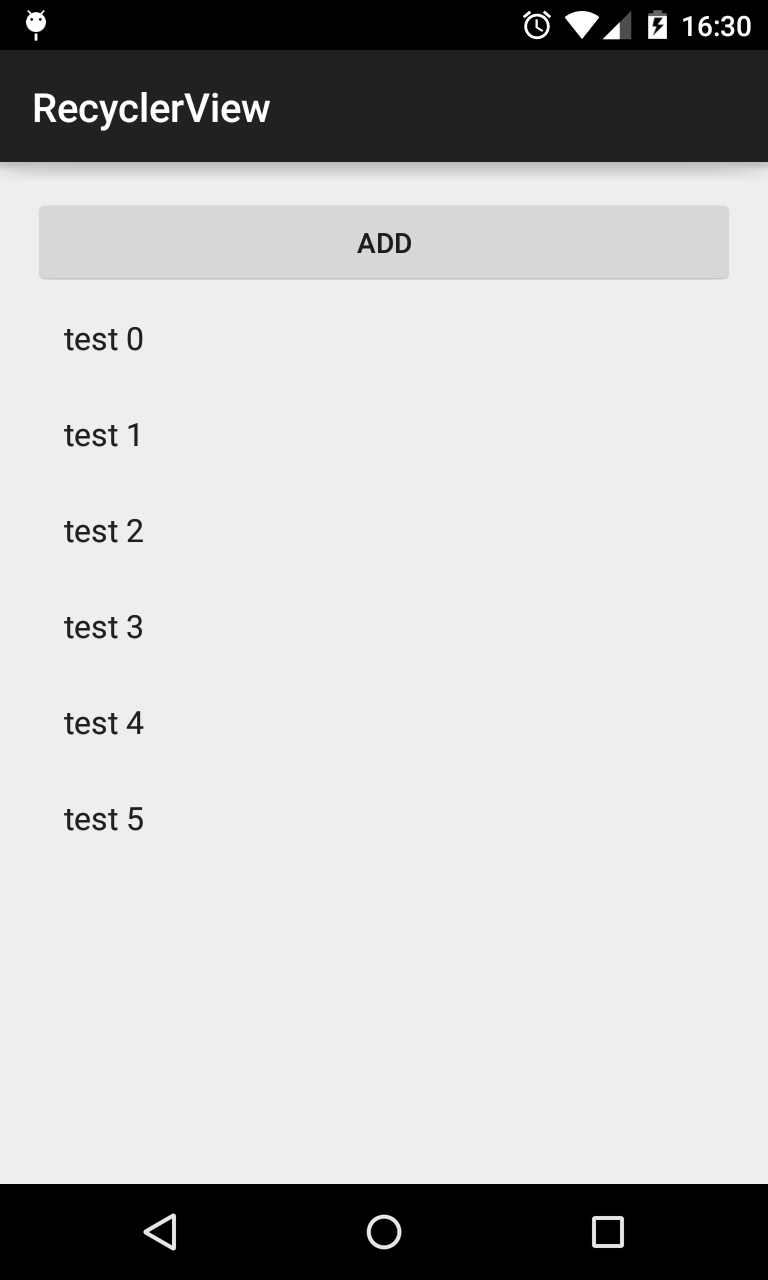
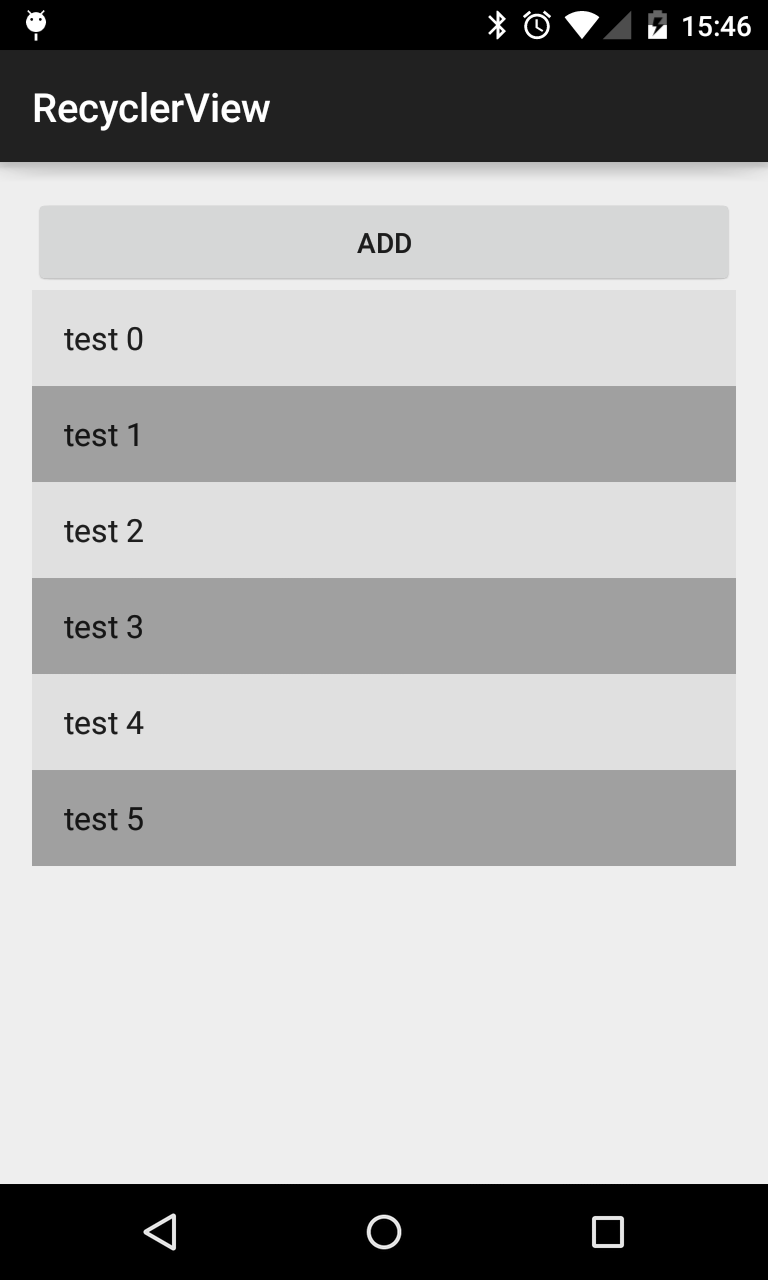
Pair Impair Color in Simple Sample

diff --git a/src/com/android2ee/recyclerview/adapter/RecyclerSimpleViewAdapter.java b/src/com/android2ee/recyclerview/adapter/RecyclerSimpleViewAdapter.java
@@ -3,10 +3,13 @@ package com.android2ee.recyclerview.adapter;
 import java.util.List;
 
 import android.support.v7.widget.RecyclerView;
+import android.util.Log;
 import android.view.LayoutInflater;
 import android.view.View;
 import android.view.ViewGroup;
 import android.widget.TextView;
+
+import com.android2ee.recyclerview.R;
 
 /**
  * 
@@ -69,6 +72,14 @@ public class RecyclerSimpleViewAdapter extends RecyclerView.Adapter<RecyclerSimp
 		// save information in holder, we have one type in this adapter
         holder.primaryText.setText(item);
         holder.itemView.setTag(item);
+        
+        if ((position % 2) == 0) {
+        	Log.w("TAG", "color1");
+        	holder.itemView.setBackgroundResource(R.color.color1);
+        } else {
+        	Log.w("TAG", "color2");
+        	holder.itemView.setBackgroundResource(R.color.color2);
+        }
 	}
     
     /**
